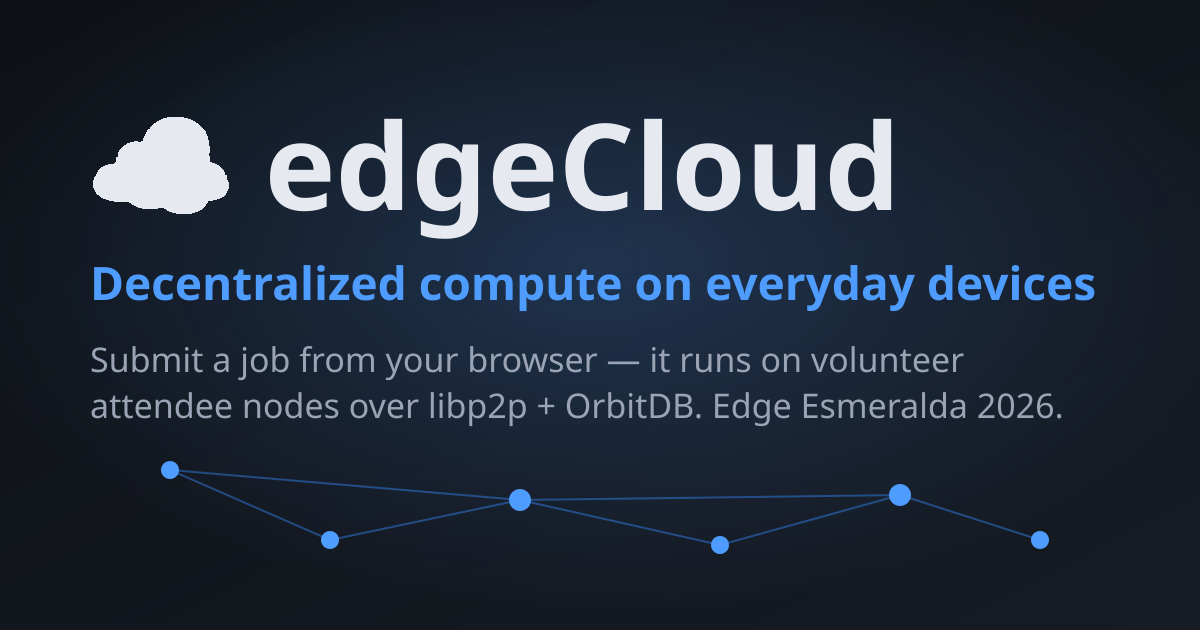
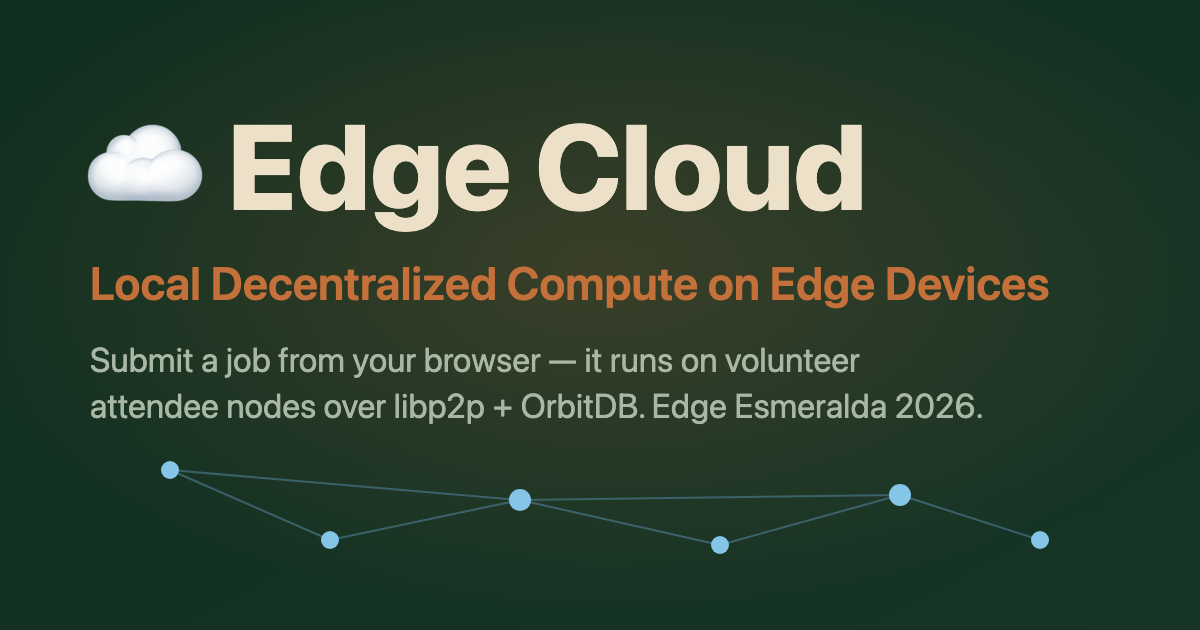
Rebrand demo UI: deck color palette + "Edge Cloud" title
Recolor the web app and live execution map to the presentation deck
palette (#102E1F forest green, #EDE0C8 cream, #C4703A terracotta,
#5B8DAD slate blue), replacing the dark-blue theme. Executing nodes
glow terracotta (was purple); dispatch=cream, result=mint. Idle-node
fill, error red, borders, and viz links adjusted for WCAG/projector
legibility.

Rename the display title "edgeCloud" -> "Edge Cloud" and set the
subtitle to "Local Decentralized Compute on Edge Devices" across the
H1, browser title, social meta, and the OG share image (PNG
regenerated). Repo/package identifiers and GitHub URLs unchanged.

diff --git a/server/src/public/style.css b/server/src/public/style.css
@@ -1,13 +1,14 @@
 :root {
-  --bg: #0e1116;
-  --card: #161b24;
-  --border: #2a3242;
-  --text: #e6e9ef;
-  --muted: #9aa4b5;
-  --accent: #4f9cff;
-  --accent-dark: #2f7be0;
-  --ok: #4cd47a;
-  --err: #ff6b6b;
+  --bg: #102E1F;
+  --card: #173527;
+  --border: #3C6149;
+  --text: #EDE0C8;
+  --muted: #A9B8A4;
+  --accent: #C4703A;
+  --accent-dark: #9E5326;
+  --accent-blue: #5B8DAD;
+  --ok: #6FBE7E;
+  --err: #FA6E63;
   --mono: ui-monospace, SFMono-Regular, Menlo, Consolas, monospace;
 }
 
@@ -55,7 +56,7 @@ label { display: block; margin: 0.6rem 0 0.25rem; color: var(--muted); font-size
 
 input[type="email"], select, textarea {
   width: 100%;
-  background: #0b0e13;
+  background: #0D2417;
   color: var(--text);
   border: 1px solid var(--border);
   border-radius: 8px;
@@ -69,7 +70,7 @@ button {
   margin-top: 0.8rem;
   width: 100%;
   background: var(--accent);
-  color: #fff;
+  color: #1A1108;
   border: 0;
   border-radius: 8px;
   padding: 0.7rem 1rem;
@@ -95,10 +96,10 @@ form { display: flex; flex-direction: column; gap: 0.2rem; }
 /* Break at word boundaries; only break *inside* a token (e.g. a long base64
    pubkey) when it can't fit on its own line — never mid-word for normal prose. */
 .small { font-size: 0.8rem; color: var(--muted); overflow-wrap: break-word; word-break: normal; }
-#whoami a { color: #fff; text-decoration: underline; }
+#whoami a { color: var(--text); text-decoration: underline; }
 
 pre {
-  background: #0b0e13;
+  background: #0D2417;
   border: 1px solid var(--border);
   border-radius: 8px;
   padding: 0.8rem;
@@ -161,29 +162,29 @@ footer a { color: var(--muted); }
 #vizSvg { width: 100%; height: auto; display: block; }
 
 /* links (libp2p connections) — a slow dash flow suggests replication */
-.viz-link { stroke: #2f3a4d; stroke-width: 1.4; fill: none; stroke-dasharray: 3 7; animation: vizflow 1.1s linear infinite; }
+.viz-link { stroke: #3E5F73; stroke-width: 1.4; fill: none; stroke-dasharray: 3 7; animation: vizflow 1.1s linear infinite; }
 @keyframes vizflow { to { stroke-dashoffset: -20; } }
-.viz-link-pulse { stroke: #eaf2ff; stroke-width: 3; stroke-linecap: round; fill: none; opacity: 0; pointer-events: none; }
+.viz-link-pulse { stroke: #F3E9D2; stroke-width: 3; stroke-linecap: round; fill: none; opacity: 0; pointer-events: none; }
 
-/* nodes — idle = green; executing = purple (NOT amber, so it never reads as a warning) */
+/* nodes — idle = green; executing = terracotta (the brand's warm "active" color, not a warning) */
 .viz-node .body { stroke-width: 2.5; transition: fill 0.4s, stroke 0.4s; }
-.viz-node.available .body { fill: #10261a; stroke: var(--ok); }
-.viz-node.busy .body { fill: #241a3a; stroke: #b388ff; }
+.viz-node.available .body { fill: #214A33; stroke: #7FB58A; }
+.viz-node.busy .body { fill: #3A2114; stroke: #E08A4E; }
 .viz-node text { fill: var(--text); font-family: inherit; }
 .viz-node .nm { font-size: 16px; font-weight: 600; }
-.viz-node .ip { fill: #8ad; font-size: 14px; font-family: ui-monospace, Menlo, monospace; }
+.viz-node .ip { fill: #9CC0D6; font-size: 14px; font-family: ui-monospace, Menlo, monospace; }
 .viz-node .px { fill: var(--muted); font-size: 13px; }
-.viz-node .gpu-badge { fill: #6cc6ff; font-size: 12px; font-weight: 700; }
-.viz-node.gpu .body { filter: drop-shadow(0 0 5px #6cc6ff); } /* GPU nodes get a soft blue glow */
-.viz-server .body { fill: #11203a; stroke: var(--accent); stroke-width: 2.5; }
-.viz-server .t1 { font-size: 16px; font-weight: 700; fill: #cfe0ff; }
+.viz-node .gpu-badge { fill: #A9D4EE; font-size: 12px; font-weight: 700; }
+.viz-node.gpu .body { filter: drop-shadow(0 0 5px #A9D4EE); } /* GPU nodes get a soft blue glow */
+.viz-server .body { fill: #163848; stroke: var(--accent-blue); stroke-width: 2.5; }
+.viz-server .t1 { font-size: 16px; font-weight: 700; fill: #C4DCEA; }
 .viz-server .t2 { font-size: 13px; fill: var(--muted); }
 
-/* execution pulse on the worker that just ran a job (purple ring) */
-.viz-node .ring { fill: none; stroke: #b388ff; stroke-width: 2.5; opacity: 0; transform-box: fill-box; transform-origin: center; }
+/* execution pulse on the worker that just ran a job (terracotta ring) */
+.viz-node .ring { fill: none; stroke: #E08A4E; stroke-width: 2.5; opacity: 0; transform-box: fill-box; transform-origin: center; }
 .viz-node.pulsing .ring { animation: vizpulse 0.9s ease-out; }
 @keyframes vizpulse { 0% { opacity: 0.9; transform: scale(1); } 100% { opacity: 0; transform: scale(2.6); } }
 
-/* the job "packet" gliding from the rendezvous to its worker (purple, glowing) */
-.viz-packet { fill: #c4a3ff; filter: drop-shadow(0 0 8px #a970ff); }
+/* the job "packet" gliding from the rendezvous to its worker (terracotta, glowing) */
+.viz-packet { fill: #F0A060; filter: drop-shadow(0 0 8px #C4703A); }
 .viz-empty { fill: var(--muted); font-size: 15px; }

diff --git a/server/src/public/index.html b/server/src/public/index.html
@@ -3,26 +3,26 @@
 <head>
   <meta charset="utf-8">
   <meta name="viewport" content="width=device-width, initial-scale=1, viewport-fit=cover">
-  <title>edgeCloud — Edge Esmeralda 2026</title>
+  <title>Edge Cloud — Edge Esmeralda 2026</title>
   <meta name="description" content="Submit a compute job from your browser and run it on a decentralized network of Edge Esmeralda devices. A prototype decentralized cloud on libp2p + OrbitDB.">
-  <meta name="theme-color" content="#0e1116">
+  <meta name="theme-color" content="#102E1F">
   <link rel="icon" href="favicon.svg" type="image/svg+xml">
 
   <!-- Open Graph -->
   <meta property="og:type" content="website">
-  <meta property="og:site_name" content="edgeCloud">
-  <meta property="og:title" content="edgeCloud — decentralized compute for Edge Esmeralda">
+  <meta property="og:site_name" content="Edge Cloud">
+  <meta property="og:title" content="Edge Cloud — decentralized compute for Edge Esmeralda">
   <meta property="og:description" content="Submit a JavaScript or WASM job from your browser; it runs on volunteer attendee devices over a libp2p + OrbitDB network, and the result comes back to you.">
   <meta property="og:url" content="http://146.190.123.91/">
   <meta property="og:image" content="http://146.190.123.91/og-image.png">
   <meta property="og:image:type" content="image/png">
   <meta property="og:image:width" content="1200">
   <meta property="og:image:height" content="630">
-  <meta property="og:image:alt" content="edgeCloud — decentralized compute on everyday devices">
+  <meta property="og:image:alt" content="Edge Cloud — local decentralized compute on edge devices">
 
   <!-- Twitter -->
   <meta name="twitter:card" content="summary_large_image">
-  <meta name="twitter:title" content="edgeCloud — decentralized compute for Edge Esmeralda">
+  <meta name="twitter:title" content="Edge Cloud — decentralized compute for Edge Esmeralda">
   <meta name="twitter:description" content="Submit a compute job from your browser; it runs on a decentralized network of attendee devices.">
   <meta name="twitter:image" content="http://146.190.123.91/og-image.png">
 
@@ -30,8 +30,8 @@
 </head>
 <body>
   <header>
-    <h1>☁️ edgeCloud</h1>
-    <p class="tagline">Decentralized compute on Edge Esmeralda devices — prototype demo</p>
+    <h1>☁️ Edge Cloud</h1>
+    <p class="tagline">Local Decentralized Compute on Edge Devices</p>
     <div id="netStatus" class="net-status">connecting…</div>
   </header>
 
@@ -40,7 +40,7 @@
     <section class="card viz-card" id="vizPanel">
       <div class="viz-head">
         <span class="viz-title">⚡ Live execution map</span>
-        <span id="vizHint" class="viz-hint small">white = job dispatched to a worker · teal = its result replicating to <em>every</em> node (CRDT / p2p — no central copy)</span>
+        <span id="vizHint" class="viz-hint small">cream = job dispatched to a worker · mint = its result replicating to <em>every</em> node (CRDT / p2p — no central copy)</span>
       </div>
       <svg id="vizSvg" viewBox="0 0 1000 400" preserveAspectRatio="xMidYMid meet"
            role="img" aria-label="Live map of worker nodes executing jobs"></svg>

diff --git a/server/src/public/app.js b/server/src/public/app.js
@@ -732,8 +732,8 @@ function animateLink(peerId) {
 
 // Result written back, the DECENTRALIZED way: it flows from the worker to the
 // rendezvous, then replicates p2p to EVERY other node (CRDT gossip) — so the
-// answer ends up on all nodes, not just where it ran. Teal = the result.
-var RESULT_COLOR = '#54e3c2';
+// answer ends up on all nodes, not just where it ran. Mint = the result.
+var RESULT_COLOR = '#A0EAD8';
 function replicateResult(peerId) {
   var from = VIZ.pos[peerId]; if (!from) return;
   flowStream(from, VIZ.center, { dur: 1.3, stroke: RESULT_COLOR }); // worker → rendezvous
@@ -767,7 +767,7 @@ function flyPacket(to) {
 
 function pulseNode(peerId, color) {
   var n = VIZ.nodeEls[peerId]; if (!n) return;
-  if (n._ring) n._ring.setAttribute('stroke', color || '#b388ff'); // purple = ran it; teal = got the result
+  if (n._ring) n._ring.setAttribute('stroke', color || '#E08A4E'); // terracotta = ran it; mint = got the result
   n.classList.remove('pulsing'); try { n.getBBox(); } catch (e) {} // reflow → restart animation
   n.classList.add('pulsing');
   setTimeout(function () { n.classList.remove('pulsing'); }, 950);